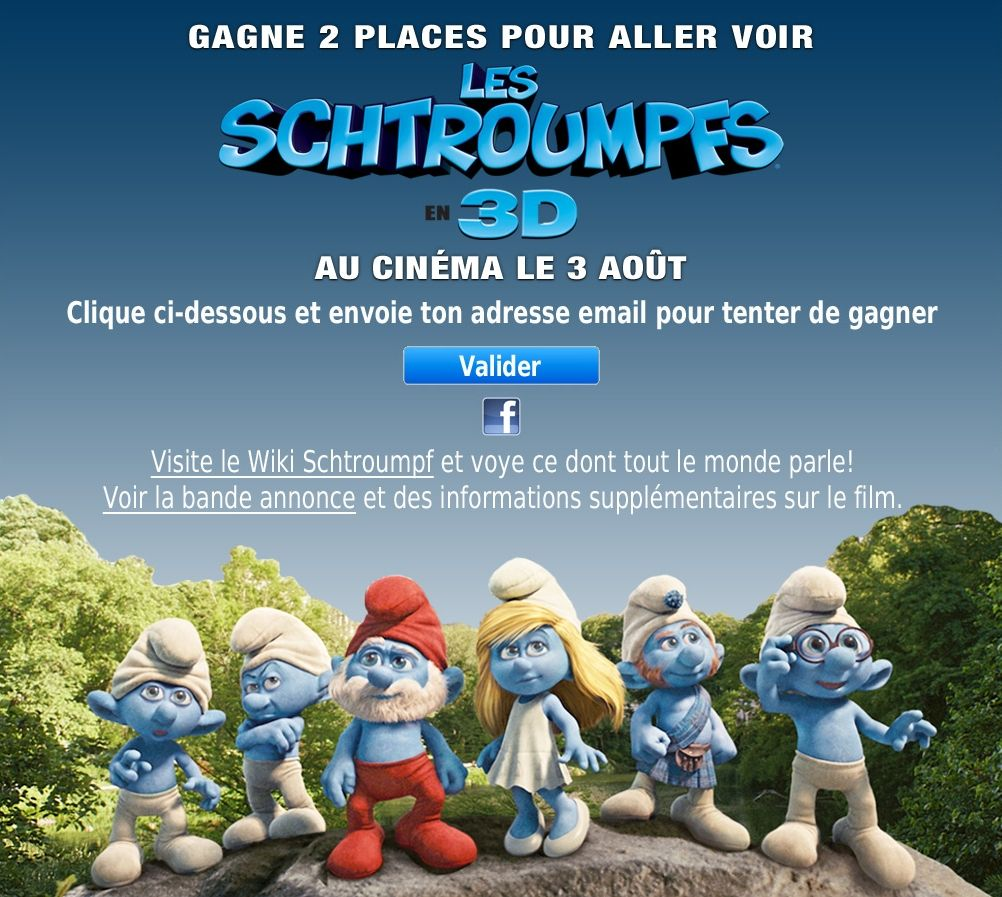
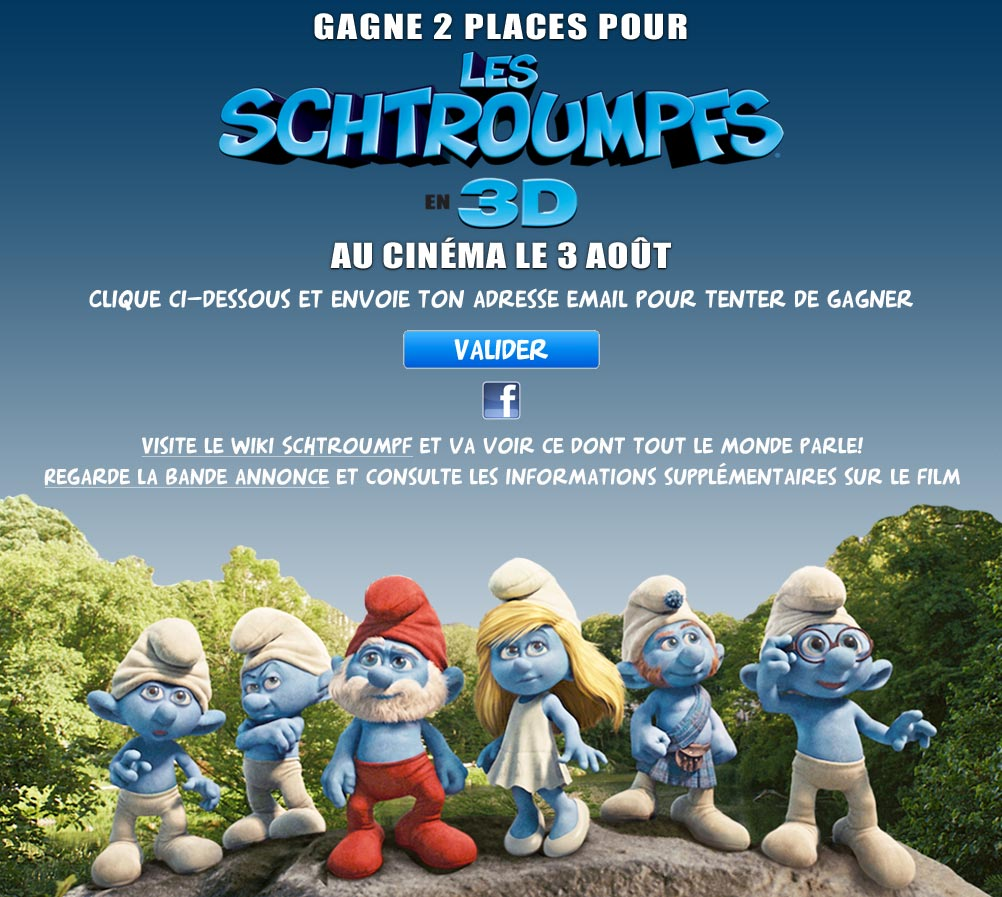
updates
git-svn-id: svn+ssh://svn.wikia-code.com/svn/wikia/trunk@39715 e846bd91-c042-42a7-a218-4b65e2c1904d

Changed region(s): [[0.0309, 0.0, 0.9591, 0.5931]]

diff --git a/extensions/wikia/LandingPageSmurfs/css/LandingPageSmurfs.scss b/extensions/wikia/LandingPageSmurfs/css/LandingPageSmurfs.scss
@@ -29,26 +29,26 @@
 		background-image: url('/extensions/wikia/LandingPageSmurfs/images/fr.jpg'); /* wgCdnStylePath */
 		.smurfs-link-enter {
 			left: 403px;
-			top: 346px;
+			top: 330px;
 			width: 197px;
 			height: 39px;
 		}
 		.smurfs-link-fb {
 			left: 482px;
-			top: 397px;
+			top: 381px;
 			width: 39px;
 			height: 39px;
 		}
 		.smurfs-link-wiki {
-			left: 150px;
-			top: 449px;
-			width: 284px;
+			left: 139px;
+			top: 431px;
+			width: 277px;
 			height: 29px;
 		}
 		.smurfs-link-trailer {
-			left: 102px;
-			top: 485px;
-			width: 254px;
+			left: 41px;
+			top: 462px;
+			width: 292px;
 			height: 29px;
 		}
 	}
@@ -57,26 +57,26 @@
 		background-image: url('/extensions/wikia/LandingPageSmurfs/images/nl.jpg'); /* wgCdnStylePath */
 		.smurfs-link-enter {
 			left: 403px;
-			top: 368px;
+			top: 375px;
 			width: 197px;
 			height: 39px;
 		}
 		.smurfs-link-fb {
 			left: 482px;
-			top: 417px;
+			top: 424px;
 			width: 39px;
 			height: 39px;
 		}
 		.smurfs-link-wiki {
-			left: 175px;
-			top: 470px;
-			width: 289px;
+			left: 153px;
+			top: 481px;
+			width: 300px;
 			height: 29px;
 		}
 		.smurfs-link-trailer {
-			left: 215px;
-			top: 509px;
-			width: 179px;
+			left: 175px;
+			top: 511px;
+			width: 206px;
 			height: 29px;
 		}
 	}

diff --git a/extensions/wikia/LandingPageSmurfs/LandingPageSmurfs.i18n.php b/extensions/wikia/LandingPageSmurfs/LandingPageSmurfs.i18n.php
@@ -14,9 +14,9 @@ $messages['en'] = array(
 $messages['fr'] = array(
 	'landingpagesmurfs' => 'Les Schtroumpfs en 3D',
 	'landingpagesmurfs-enternow' => 'Valider',
-	'landingpagesmurfs-enternow-email-title' => 'Gagne 2 places pour aller voir Les Schtroumpfs en 3D- FR',
+	'landingpagesmurfs-enternow-email-title' => 'Gagne 2 places pour Les Schtroumpfs en 3D - FR',
 	'landingpagesmurfs-wikia-site-link' => '[http://www.smurfs.wikia.com Visite le Wiki Schtroumpf]',
-	'landingpagesmurfs-site-url' => 'http://www.lesschtroumpfs-lefilm.fr/',
+	'landingpagesmurfs-site-url' => 'http://www.facebook.com/Les.Schtroumpfs.LeFilm',
 	'landingpagesmurfs-facebook-url' => 'http://www.facebook.com/Les.Schtroumpfs.LeFilm',
 );
 
